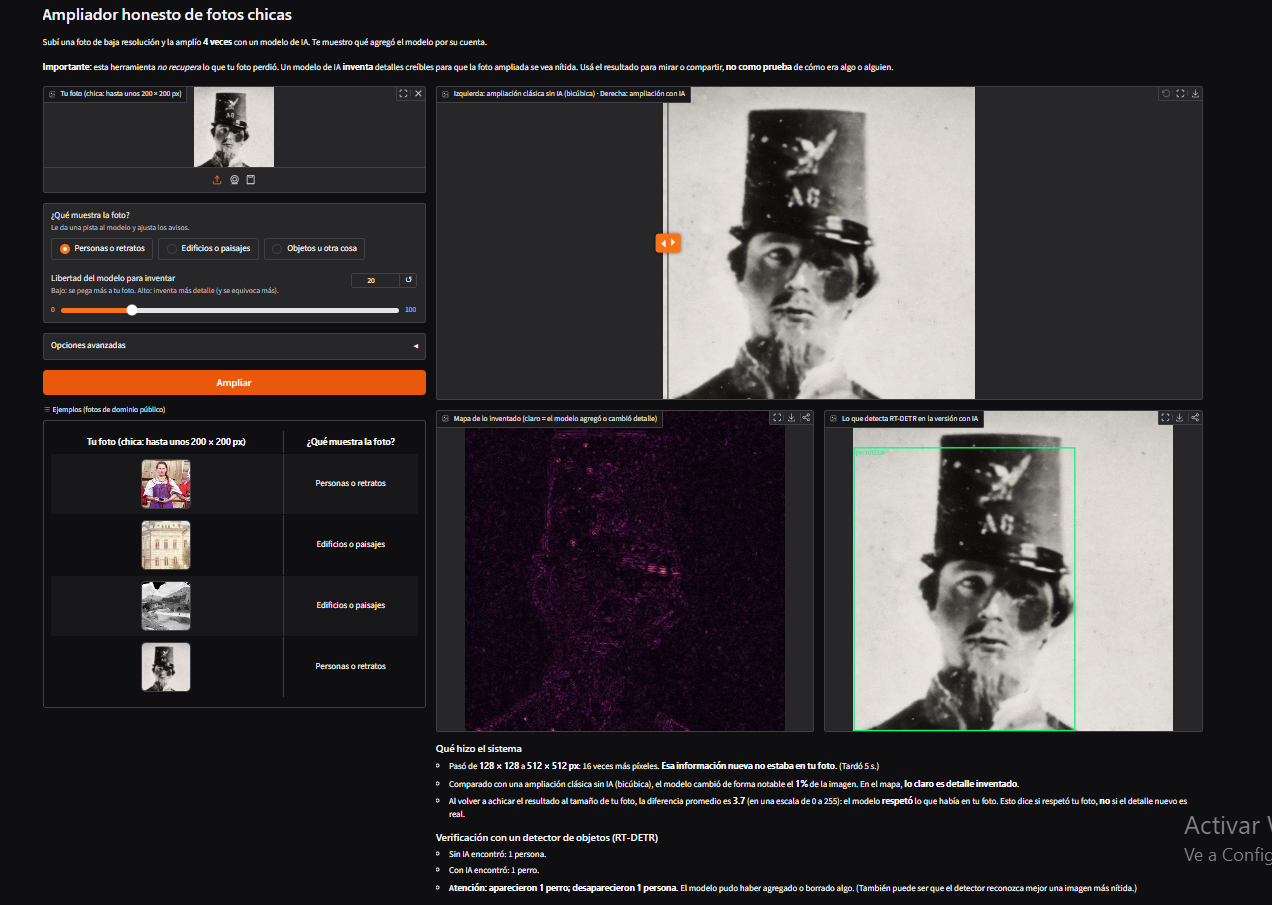
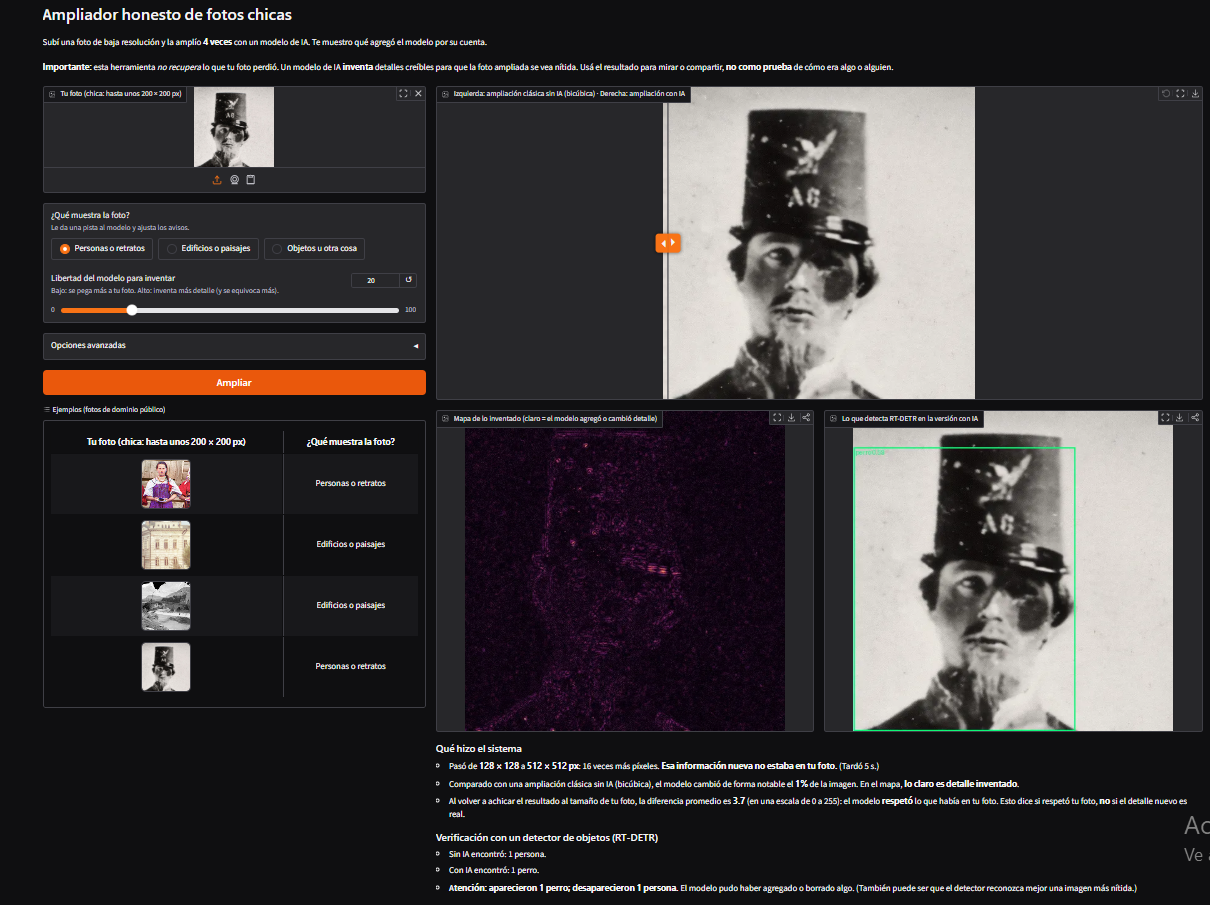
README: captura de los avisos al final del informe
Claude-Session: https://claude.ai/code/session_01K7n4Z17GYn2LbYWCwjYd9J

diff --git a/README.md b/README.md
@@ -4,6 +4,8 @@
 
 ![La app con el retrato de 1860: comparador, mapa de lo inventado, detecciones e informe](docs/img/app.png)
 
+![Final del informe: verificación con RT-DETR y avisos antes de usar la foto](docs/img/app_avisos.png)
+
 ## Descripción
 
 Cuando una foto es chica, la información que le falta **no existe más**. Las herramientas de "mejorar foto" con IA no la recuperan: la **inventan** de forma creíble. El resultado se ve nítido y convincente, pero una cara, una letra o una ventana pueden no ser las verdaderas.
